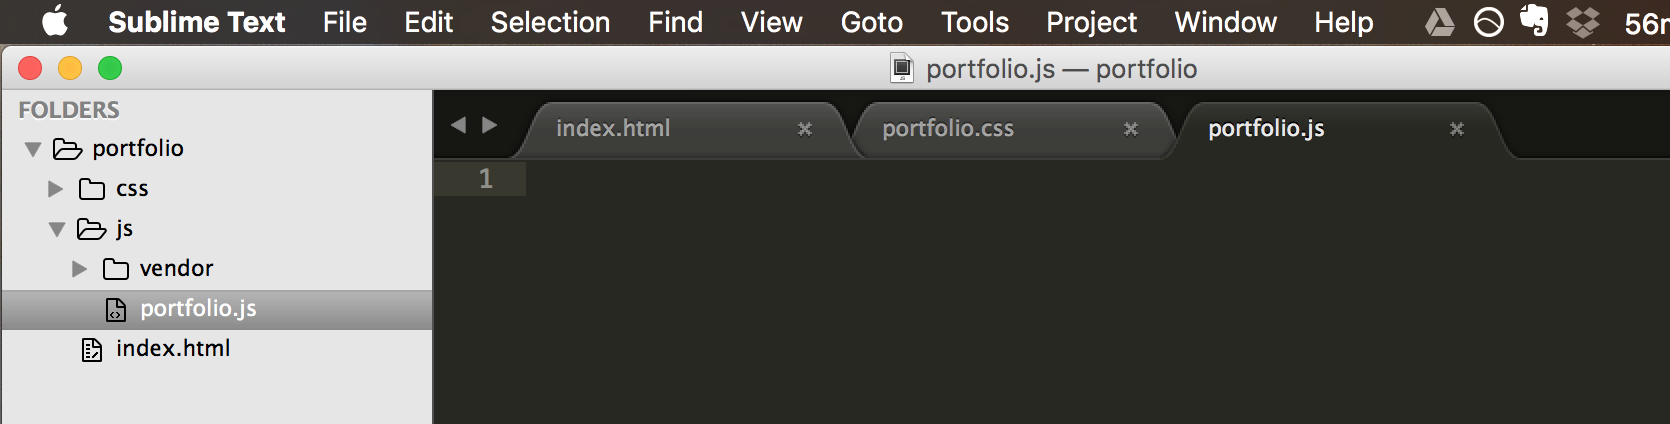
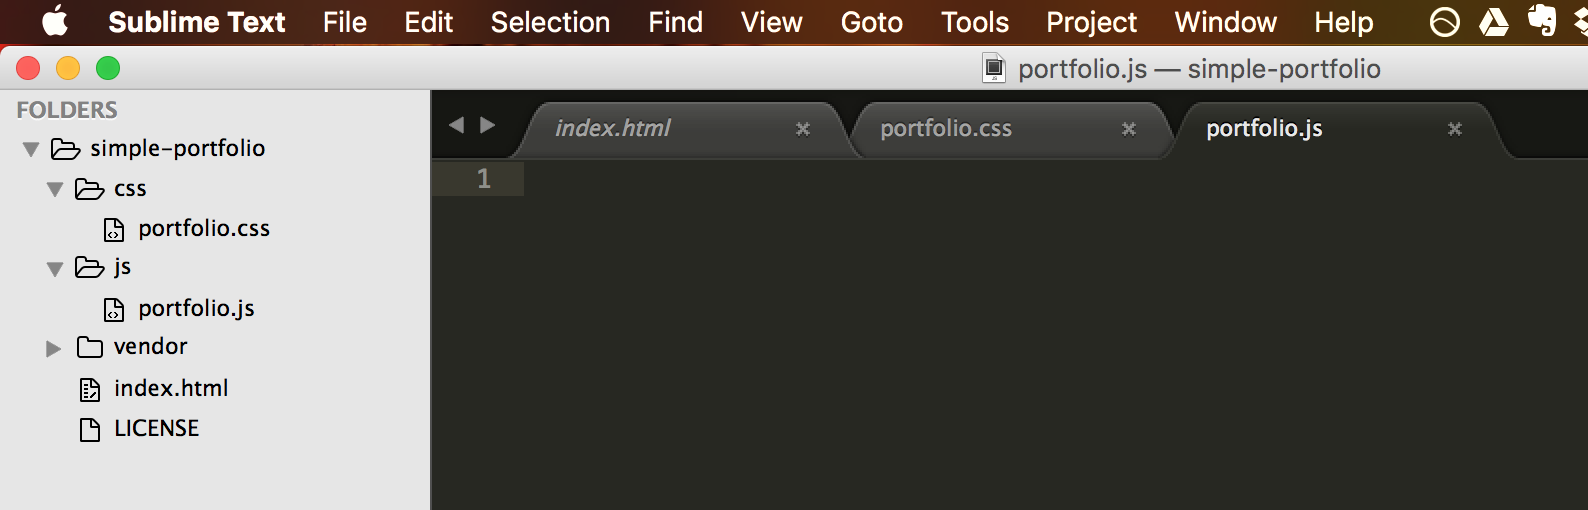
update content on earlier lessons

diff --git a/P3-basic-styling/content.md b/P3-basic-styling/content.md
@@ -139,7 +139,7 @@ As we want the link changes to be sitewide and not just for this instance, let's
 As the footer has only two items that need styling, let's transform it before the main content. The footer needs to get a new font color for the "About" header and we need to style the button. Let's start with the color and casing of the header. 
 
 > [action]
-> Change the font-color and casing of the "About" header. Add a class to the header first and then use the "text-transform" and color properties. 
+> Change the font-color, casing and text alignment of the "About" header. Add a class to the header first and then use the *text-transform*, *text-align* and *color* properties. 
 
 <!-- Comment to break up actionable boxes. -->
 
@@ -158,6 +158,7 @@ As the footer has only two items that need styling, let's transform it before th
 >    .title {
 >      color: #019cdb;
 >      text-transform: uppercase;
+>      text-align: center;
 >      letter-spacing: 3px;
 >    }
 > 
@@ -211,25 +212,19 @@ After the header and footer, let's take care of the main content. The kitten ima
 <!-- Comment to break up actionable boxes. -->
 
 > [solution]
-> You need to add a class to the h1 and h2 tag. We added one class for rules that the two titles have in common called *title* and a separate class for each title to manipulate the font-size.
+> You need to add a class to the h1 and h2 tag. We reused the *title* class from the footer and added a separate class for each title to manipulate the font-size.
 >
 > The HTML file:
 > ```
 >    <section>
 >        <img src="https://goo.gl/RG3GtK" />
 >        <img src="http://placekitten.com/g/600/600" />
->        <h1 class="main title ">Hello I'm Kitty</h1>
+>        <h1 class="main title">Hello I'm Kitty</h1>
 >        <h2 class="sub title">I love creating code</h2>
 >    </section>
 > ```
 > The CSS file:
 > ```
->    .title {
->      color: #019cdb;
->      text-transform: uppercase;
->      letter-spacing: 3px;
->    }
->    
 >    .main {
 >      font-size: 78px;
 >    }
@@ -314,6 +309,7 @@ Once you have had some time adding CSS properties to your page, make sure the pa
 >    .title {
 >      color: #019cdb;
 >      text-transform: uppercase;
+>      text-align: center;
 >      letter-spacing: 3px;
 >    }
 >    

diff --git a/P7-js-intro/content.md b/P7-js-intro/content.md
@@ -64,7 +64,7 @@ Now, this is where the debate lies. The browser renders a web page from top to b
 Most of the time you don't need the JavaScript as soon as the page is loaded as most of your content will most likely be written in HTML. So why load the JavaScript in before the HTML? Well exactly, we don't need that. If you've had a look at the HTML5 Boilerplate, you will have seen that the latest "best practice" is to load the JavaScript inside the body tag, just before it closes. This ensures that the HTML can render and your visitor sees something happening before it starts loading in the JavaScript.
 
 > [action]
-> Add a folder to your project and name it **js**. Inside it, create another folder called **vendor** and an empty file with the **.js** extension. Name it **portfolio.js**.   
+> Add a folder to your project and name it **js**. Create an empty file with the **.js** extension inside the js folder. Name it **portfolio.js**. Create another folder in the root directory and name it **vendor**.   
 
 ![Add JS in Sublime](./1-sublime-js.png "Add JS in Sublime")
 

diff --git a/P1-build-your-own-portfolio/content.md b/P1-build-your-own-portfolio/content.md
@@ -111,6 +111,21 @@ It would be easiest to think of the website in sections. The top section of the 
 >    </header>
 >```
 
+We haven't created any pages yet but we will add the href already now as we will do so soon! 
+
+> [action] 
+> Add the href for each list item by adding a path for each future page. The syntax should be like this: `href="./index.html"` for linking to the home page. Make similar paths for the other two links.
+
+<!-- Comment to break up actionable boxes. -->
+
+> [solution]
+> Use **./** ahead of each page to make it relevant to the page that the link is on.
+> ```
+>    <li><a href="./index.html">Home</a></li>
+>    <li><a href="./gallery.html">Gallery</a></li>
+>    <li><a href="./contact.html">Contact</a></li>
+> ```
+
 Before adding the middle section, let's focus on the bottom as it has only two additions to the page. 
 
 > [action]
